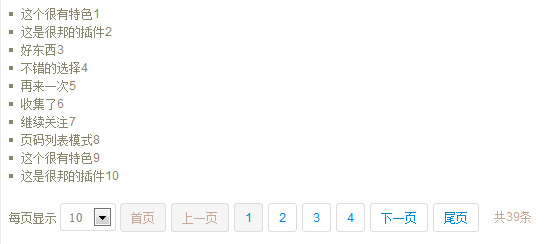
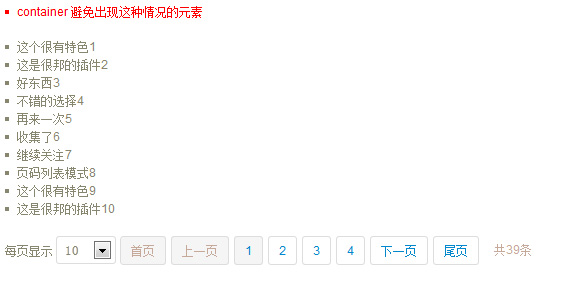
fix contain more children no needed

diff --git a/jPager/jquery.jPager.js b/jPager/jquery.jPager.js
@@ -7,19 +7,20 @@ date: 2013.5.22
 		jPager: function(options){
 
 			var options = $.extend({
+				container: "",                // 操作container下面的children
 				position: "after",            // after: 在内容的后面，before: 在内容的前面
 				show_length: true,            // true: 显示共多少条信息, false: 不显示
-				show_select: true,           // true: 显示下拉框选择条数, false: 不显示
+				show_select: true,            // true: 显示下拉框选择条数, false: 不显示
 				per_num: 10,                  // 每页显示的条数
 				select: [10, 20, 50, 100],
-				active_num: 1,                // 默认显示的页数
-				children: "li"                // 要分页的元素
+				active_page: 1,                // 默认显示的页数
+				children: "li"                 // 要分页的元素
 			}, options);
 
 			
 			return this.each(function(){
 				var self = $(this),
-					elem = $(options.children, self), // 每条信息
+					elem = $(options.children, $(options.container)), // 每条信息
 					html = "",
 					page_html = '',
 					children_len = elem.length,  
@@ -50,7 +51,7 @@ date: 2013.5.22
 				}
 
 				$(".jPager_Select_element", self).change(function(){
-					j_select = $(".jPager_Select_element", self).val();
+					var j_select = $(".jPager_Select_element", self).val();
 					options.per_num = j_select;
 					page_num = Math.ceil(children_len/j_select);
 					renderPage();
@@ -97,8 +98,7 @@ date: 2013.5.22
 							first = $(".first", self),
 							last = $(".last", self),
 							prev = $(".prev", self),
-							next = $(".next", self),
-							j_select;					
+							next = $(".next", self);				
 						
 						// 有页码的点击事件
 						page_num_li.live("click", function(){
@@ -193,7 +193,7 @@ date: 2013.5.22
 							}
 						});
 
-						page_num_li.eq(options.active_num-1).click();
+						page_num_li.eq(options.active_page-1).click();
 					}else {
 						elem.show();
 						$(".jPager", self).remove();

diff --git a/index.html b/index.html
@@ -5,13 +5,14 @@
 	<title>jPager</title>
 	<link rel="stylesheet" type="text/css" href="jPager/jPager.css">
 	<style type="text/css">
-	#info {margin:0; padding:0; margin-bottom:20px;  font-size: 12px;}
-	#info li {padding:0; margin-bottom: 3px; color:#88866F; list-style: square   inside;}
+	.info {margin:0; padding:0; margin-bottom:20px;  color:#88866F; font-size: 12px;}
+	.info li {padding:0; margin-bottom: 3px; list-style: square   inside;}
 	</style>
 </head>
 <body>
 <div id="infoContainer">
-	<ul id="info">
+	<ul class="info" style="color:red"><li>container 避免出现这种情况的元素</li></ul>
+	<ul id="info" class="info">
 		<li>这个很有特色1</li>
 		<li>这是很邦的插件2</li>
 		<li>好东西3</li>
@@ -86,6 +87,7 @@
 <script type="text/javascript">
 $(function(){
 	$("#infoContainer").jPager({
+		container: "#info",
 		position: "after",            // after: 在内容的后面，before: 在内容的前面
 		show_length: true,            // true: 显示共多少条信息, false: 不显示
 		show_select: true,           // true: 显示下拉框选择条数, false: 不显示

diff --git a/jPager/jPager.css b/jPager/jPager.css
@@ -13,4 +13,4 @@ date: 2013.5.22
 .jPager li.active a {background: #f5f5f5; color: #c6a999; cursor: default;}
 .jPager li.active a {color:#0088cc;}
 .jPager_Select {float:left; font-size: 12px; margin-right: 4px; color: #88866F;}
-.jPager_Select select {padding:4px; border:#dddddd solid 1px; border-radius: 3px; color: #88866F;}
+.jPager_Select select {padding:4px; width: 60px; border:#dddddd solid 1px; border-radius: 3px; color: #88866F;}

diff --git a/README.md b/README.md
@@ -21,7 +21,7 @@
 </code>
 
 <code javascript>
-	$("#infoContainer").jPager();
+	$("#infoContainer").jPager({container : "#info"});
 
 </code>
 
@@ -32,6 +32,8 @@
 
 <code javascript>
 	$("#infoContainer").jPager({
+	
+		container : "#info",          // 这个必须指定，操作container下面的children
 	
 		position: "after",            // after: 在内容的后面，before: 在内容的前面
 		
